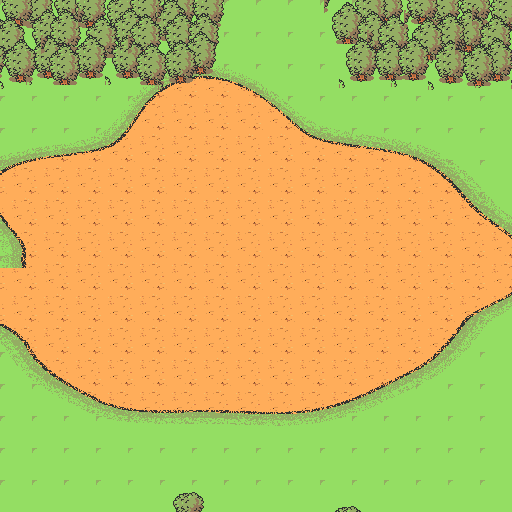
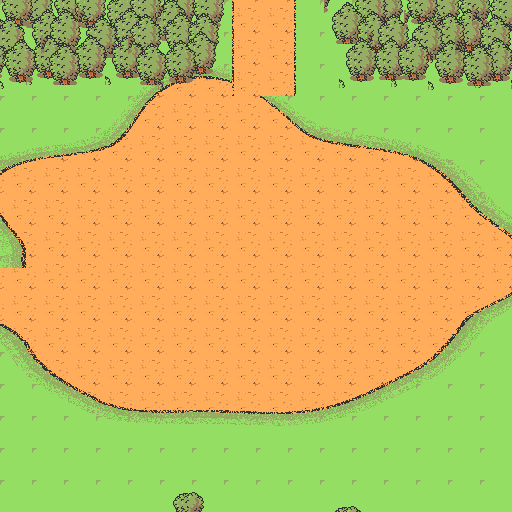
Ranch: runtime solid rects, gate-corridor art, eaglescliffe music, placeholder sprites
- blocked() consults runtimeSolidRects_ (world rects fed from farm state;
  the building-footprint mechanism for player-placed structures)
- mint: gate corridor gets a packed-dirt path + door mouth + lip; generated
  sector-music extended to 92 rows (ranch = eaglescliffe)
- EB-window placeholder sprites (.placeholder.png) so the building-actor
  pipeline is testable before the generated art lands

Changed region(s): [[0.4375, 0.0, 0.5938, 0.1875]]

diff --git a/apps/game/src/chunkedWorldScene.ts b/apps/game/src/chunkedWorldScene.ts
@@ -1109,6 +1109,8 @@ export class ChunkedWorldScene extends Phaser.Scene {
   private loadingBarrierKeys = new Set<string>();
   private pendingScriptedDialogueComplete?: () => void;
   private pendingRanchDoorWarp_?: { destination: EventWarpDestination; options: DoorWarpOptions };
+  /** World-rect solids for player-placed ranch structures (see blocked()). */
+  private runtimeSolidRects_: Array<{ x: number; y: number; w: number; h: number }> = [];
   private pendingInteractionShopStoreId?: number;
   private pendingInteractionService?: { service: ServiceKind; cost?: number };
   private pendingSourceCheckEntryId?: string;
@@ -4441,6 +4443,14 @@ export class ChunkedWorldScene extends Phaser.Scene {
     }
     if (this.barrierBlocks(x, y)) {
       return true;
+    }
+    // Player-placed ranch structures: world-rect solids fed from farm state
+    // (buildings are runtime actors, so their footprints live here, not in the
+    // baked collision grid).
+    for (const r of this.runtimeSolidRects_) {
+      if (x >= r.x && x < r.x + r.w && y >= r.y && y < r.y + r.h) {
+        return true;
+      }
     }
     if ((options.includeNpcs ?? true) && this.presentInteractableBlocks(x, y, options.escapeOverlapAt)) {
       return true;

diff --git a/scripts/mint-ranch-land.py b/scripts/mint-ranch-land.py
@@ -143,7 +143,19 @@ def paint(w):
             elif d < 1.07 and hash01(wx, wy) < 0.3:
                 px[wx, wy - OY] = OLIVE
 
-    # 3. (pond deferred to decor phase)
+    # 3. gate corridor: a packed-dirt path through the north wall so arrival
+    #    reads as a passage, not a void (the black above is the door mouth)
+    for wy in range(R["y0"] - 60, R["y0"] + WALL):
+        for wx in range(2792, 2856):
+            if wy < R["y0"] - 20 and not (2804 < wx < 2844):
+                continue                      # narrow to a door mouth at the top
+            dp = dirt.getpixel((wx % 32, wy % 32))
+            px[wx, wy - OY] = (dp[0], dp[1], dp[2], 255)
+    # corridor edge lip
+    for wy in range(R["y0"] - 60, R["y0"] + WALL):
+        for wx in (2792, 2793, 2854, 2855):
+            if wy >= R["y0"] - 20 and hash01(wx, wy) < 0.6:
+                px[wx, wy - OY] = DARK
 
     # 4. forest wall: dense staggered rows, painted top-to-bottom so lower
     #    canopies overlap upper trunks (EB forest look)
@@ -230,12 +242,35 @@ def wire_doors(w):
         ]))
     print("doors: barn->ranch + ranch gate->barn wired")
 
+RANCH_SONG = "eaglescliffe"   # the farm's established cue
+
+def extend_sector_music():
+    p = f"{ROOT}/sector-music.json"
+    try:
+        with open(p) as f:
+            m = json.load(f, object_pairs_hook=collections.OrderedDict)
+    except FileNotFoundError:
+        print("sector-music: generated copy missing, skipped")
+        return
+    target_rows = (NEW_HEIGHT_TILES * 32) // 128
+    add = target_rows - m["rows"]
+    if add <= 0:
+        print("sector-music: already extended")
+        return
+    m["rows"] = target_rows
+    m["song"].extend([RANCH_SONG] * (add * m["cols"]))
+    m["indoor"].extend([0] * (add * m["cols"]))
+    with open(p, "w") as f:
+        json.dump(m, f)
+    print(f"sector-music: extended to {target_rows} rows ({RANCH_SONG})")
+
 def main():
     w = load_world()
     minted = mint(w)
     paint(w)
     carve_collision(w)
     wire_doors(w)
+    extend_sector_music()
     with open(WORLD, "w") as f:
         json.dump(w, f)
     print("world.json written")